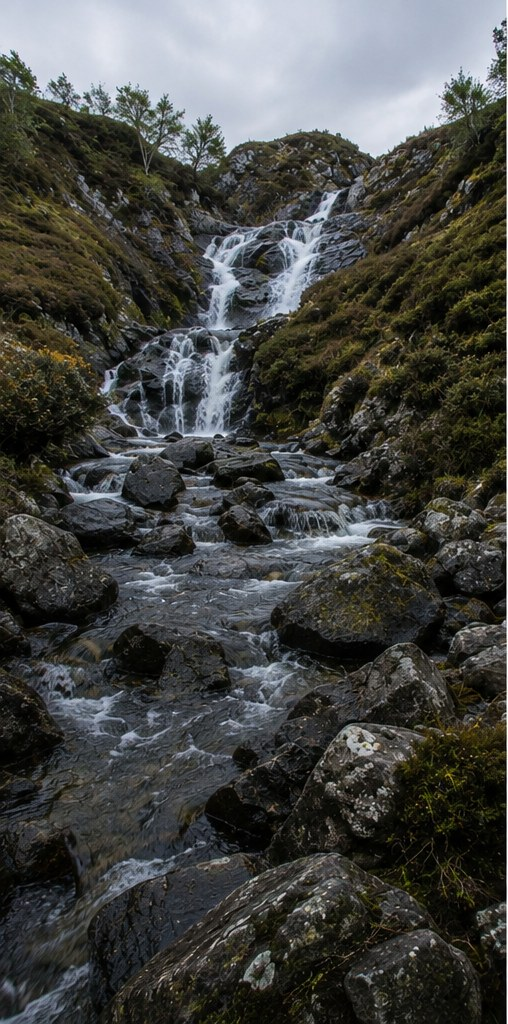
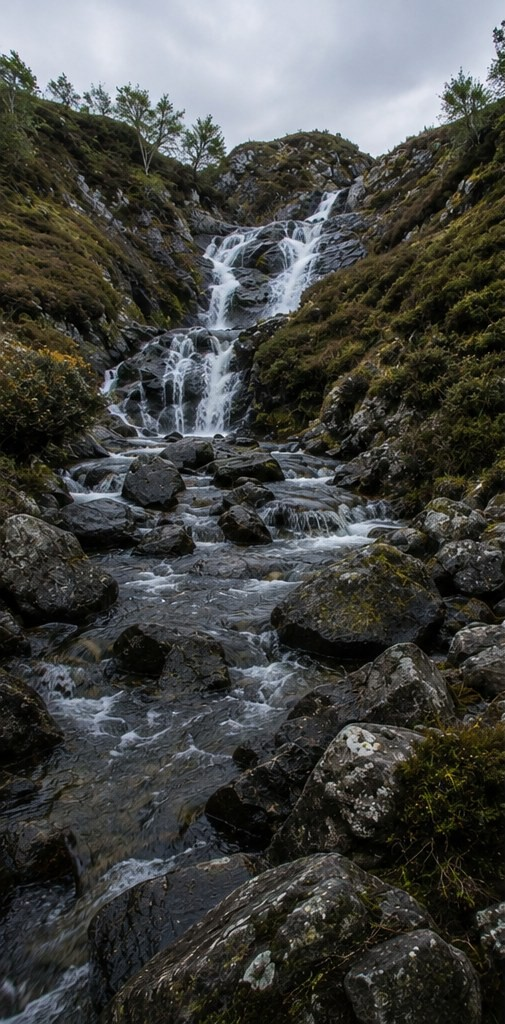
Option A: crop white edge off blue triptych; remove hero device; left-align Born of the Highlands with rotating device

diff --git a/app/option-a/page.tsx b/app/option-a/page.tsx
@@ -5,6 +5,7 @@ import { BRAND, SPECS, PRESS_QUOTES } from "../lib/brand";
 import { VariantToggle } from "../components/VariantToggle";
 import { SiteFooter } from "../components/SiteFooter";
 import { SiteNav } from "../components/SiteNav";
+import { HeroDeviceRotator } from "../components/HeroDeviceRotator";
 
 const anton = Anton({ weight: "400", subsets: ["latin"], variable: "--font-anton" });
 
@@ -92,37 +93,35 @@ export default function OptionA() {
             </Link>
           </div>
 
-          {/* device floating over the loch */}
-          <div className="relative mt-4 flex w-full flex-1 items-end justify-center">
-            <div className="absolute bottom-6 h-10 w-56 rounded-full bg-[#0F1B2D]/30 blur-2xl" />
-            {/* eslint-disable-next-line @next/next/no-img-element */}
-            <img
-              src="/renderings/forth-device-hero.png"
-              alt={`The ${BRAND} device`}
-              className="relative z-10 w-[190px] max-w-[42vw] drop-shadow-[0_30px_50px_rgba(15,27,45,0.45)] sm:w-[230px]"
-            />
-          </div>
         </div>
       </section>
 
       {/* ————— Three moves ————— */}
       <section className="bg-grain bg-a-bg">
-        <div className="mx-auto max-w-[1240px] px-6 py-24 text-center">
-          <h2 className={`${display} text-[clamp(44px,7vw,86px)]`}>Born of the Highlands</h2>
-          <p className="mt-3 font-serif text-[clamp(20px,2.6vw,30px)] italic text-a-ink/75">purified by light, not by luck</p>
+        <div className="mx-auto grid max-w-[1240px] items-center gap-14 px-6 py-24 lg:grid-cols-[1.15fr_0.85fr]">
+          <div className="text-left">
+            <h2 className={`${display} text-[clamp(44px,6vw,80px)]`}>Born of the Highlands</h2>
+            <p className="mt-3 font-serif text-[clamp(20px,2.4vw,28px)] italic text-a-ink/75">purified by light, not by luck</p>
 
-          <div className="mt-16 grid gap-12 sm:grid-cols-3">
-            {[
-              { n: "01", t: "Drop", d: "Slip it into any bottle with a neck wider than 25 mm. Loch, burn, hotel tap — no ceremony." },
-              { n: "02", t: "Shake", d: "One shake wakes the cycle. Dual UV-C emitters flood the water from every direction." },
-              { n: "03", t: "Drink", d: "Sixty seconds later the light goes out and the water is yours. No taste, no chemicals." },
-            ].map((s) => (
-              <div key={s.n} className="flex flex-col items-center">
-                <span className="font-mono text-[12px] tracking-[0.25em] text-a-ink/50">{s.n}</span>
-                <h3 className={`${display} mt-2 text-[34px]`}>{s.t}</h3>
-                <p className="mt-3 max-w-[300px] font-serif text-[17px] leading-relaxed text-a-ink/75">{s.d}</p>
-              </div>
-            ))}
+            <div className="mt-14 flex flex-col gap-10">
+              {[
+                { n: "01", t: "Drop", d: "Slip it into any bottle with a neck wider than 25 mm. Loch, burn, hotel tap — no ceremony." },
+                { n: "02", t: "Shake", d: "One shake wakes the cycle. Dual UV-C emitters flood the water from every direction." },
+                { n: "03", t: "Drink", d: "Sixty seconds later the light goes out and the water is yours. No taste, no chemicals." },
+              ].map((s) => (
+                <div key={s.n} className="flex items-start gap-5">
+                  <span className="mt-1 font-mono text-[12px] tracking-[0.25em] text-a-ink/50">{s.n}</span>
+                  <div>
+                    <h3 className={`${display} text-[30px]`}>{s.t}</h3>
+                    <p className="mt-2 max-w-[460px] font-serif text-[17px] leading-relaxed text-a-ink/75">{s.d}</p>
+                  </div>
+                </div>
+              ))}
+            </div>
+          </div>
+
+          <div className="flex justify-center lg:justify-end">
+            <HeroDeviceRotator alt={`The ${BRAND} device, rotating`} />
           </div>
         </div>
       </section>
